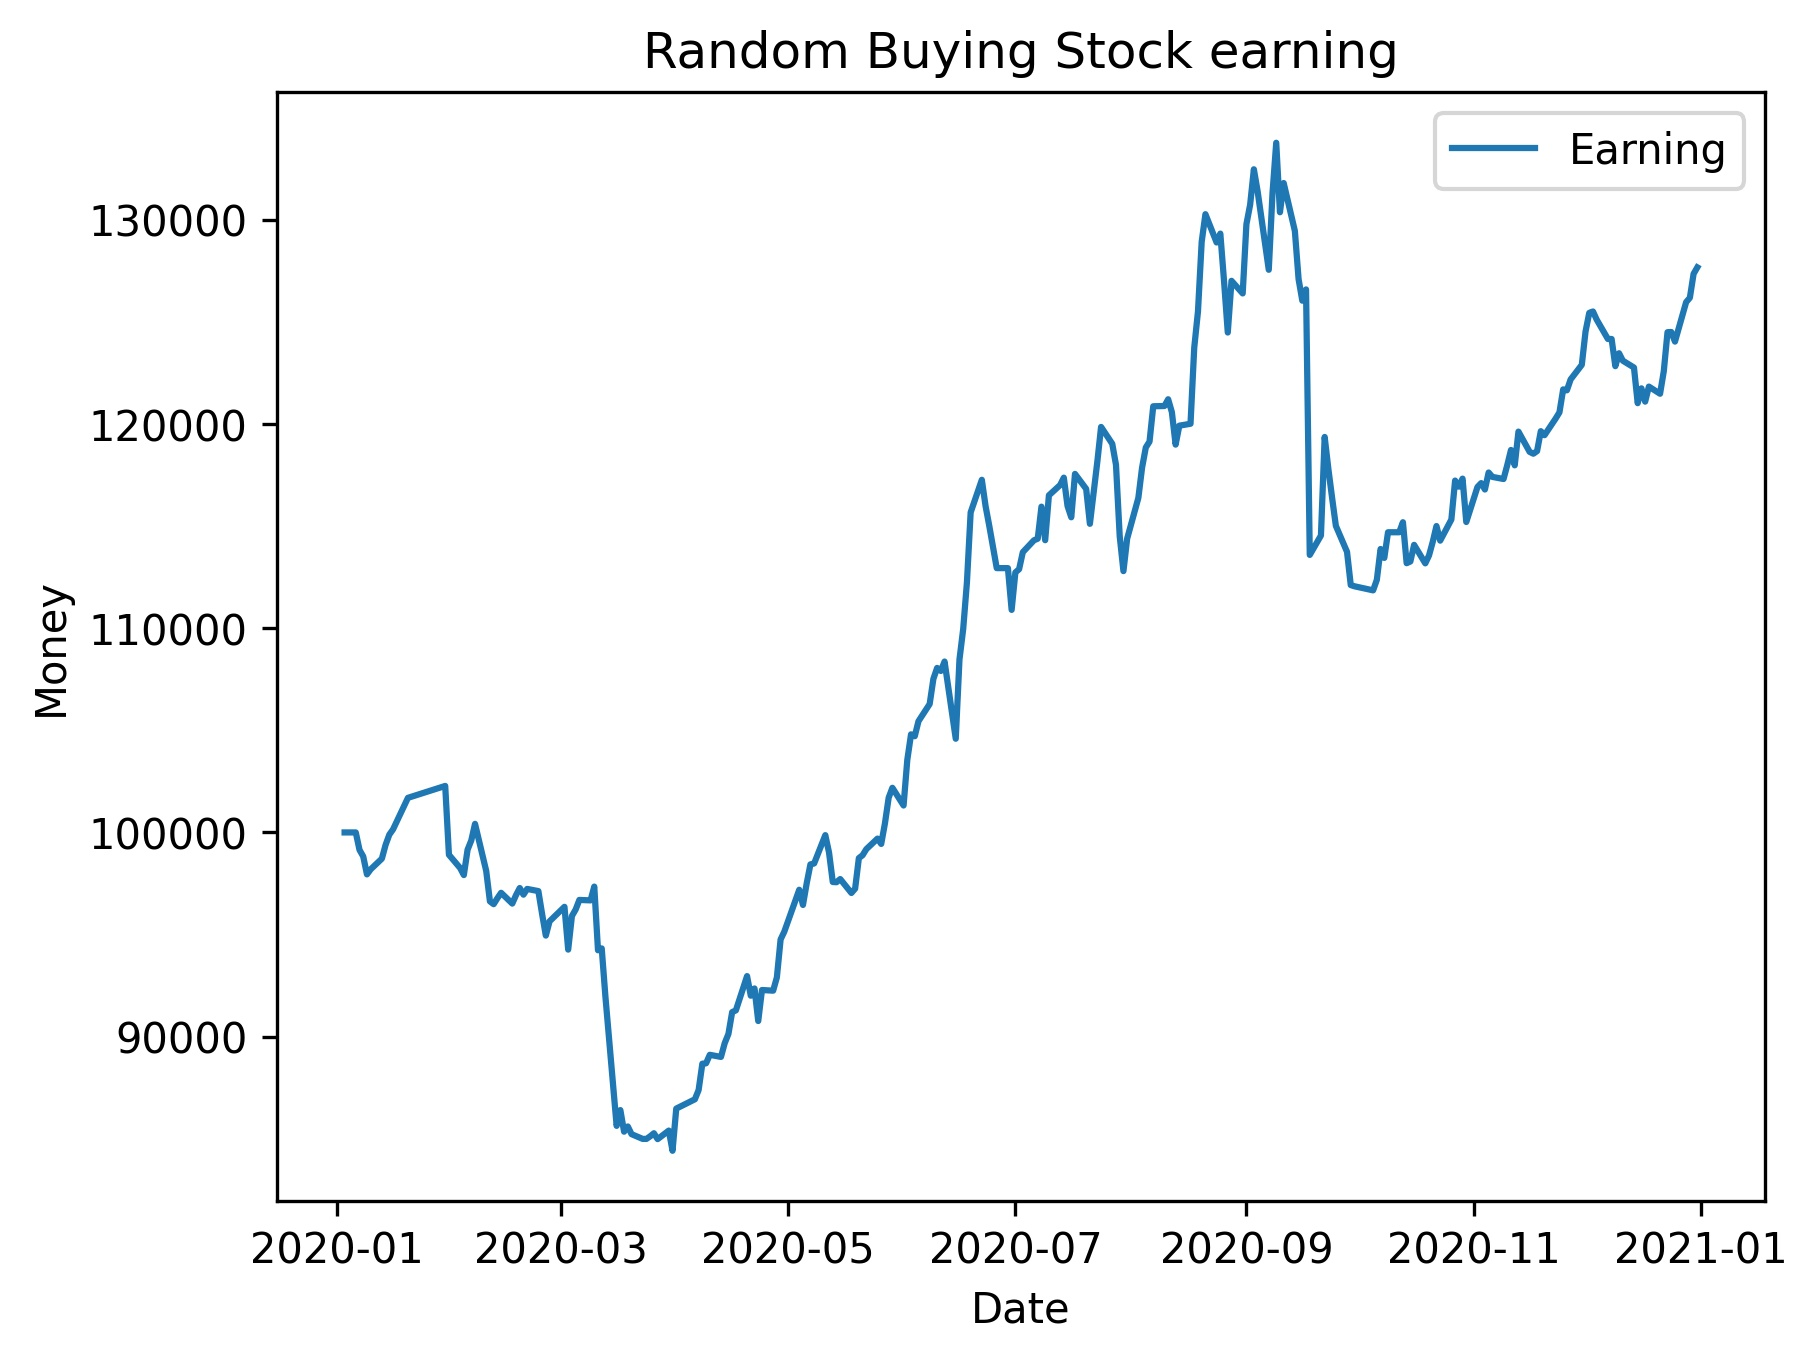
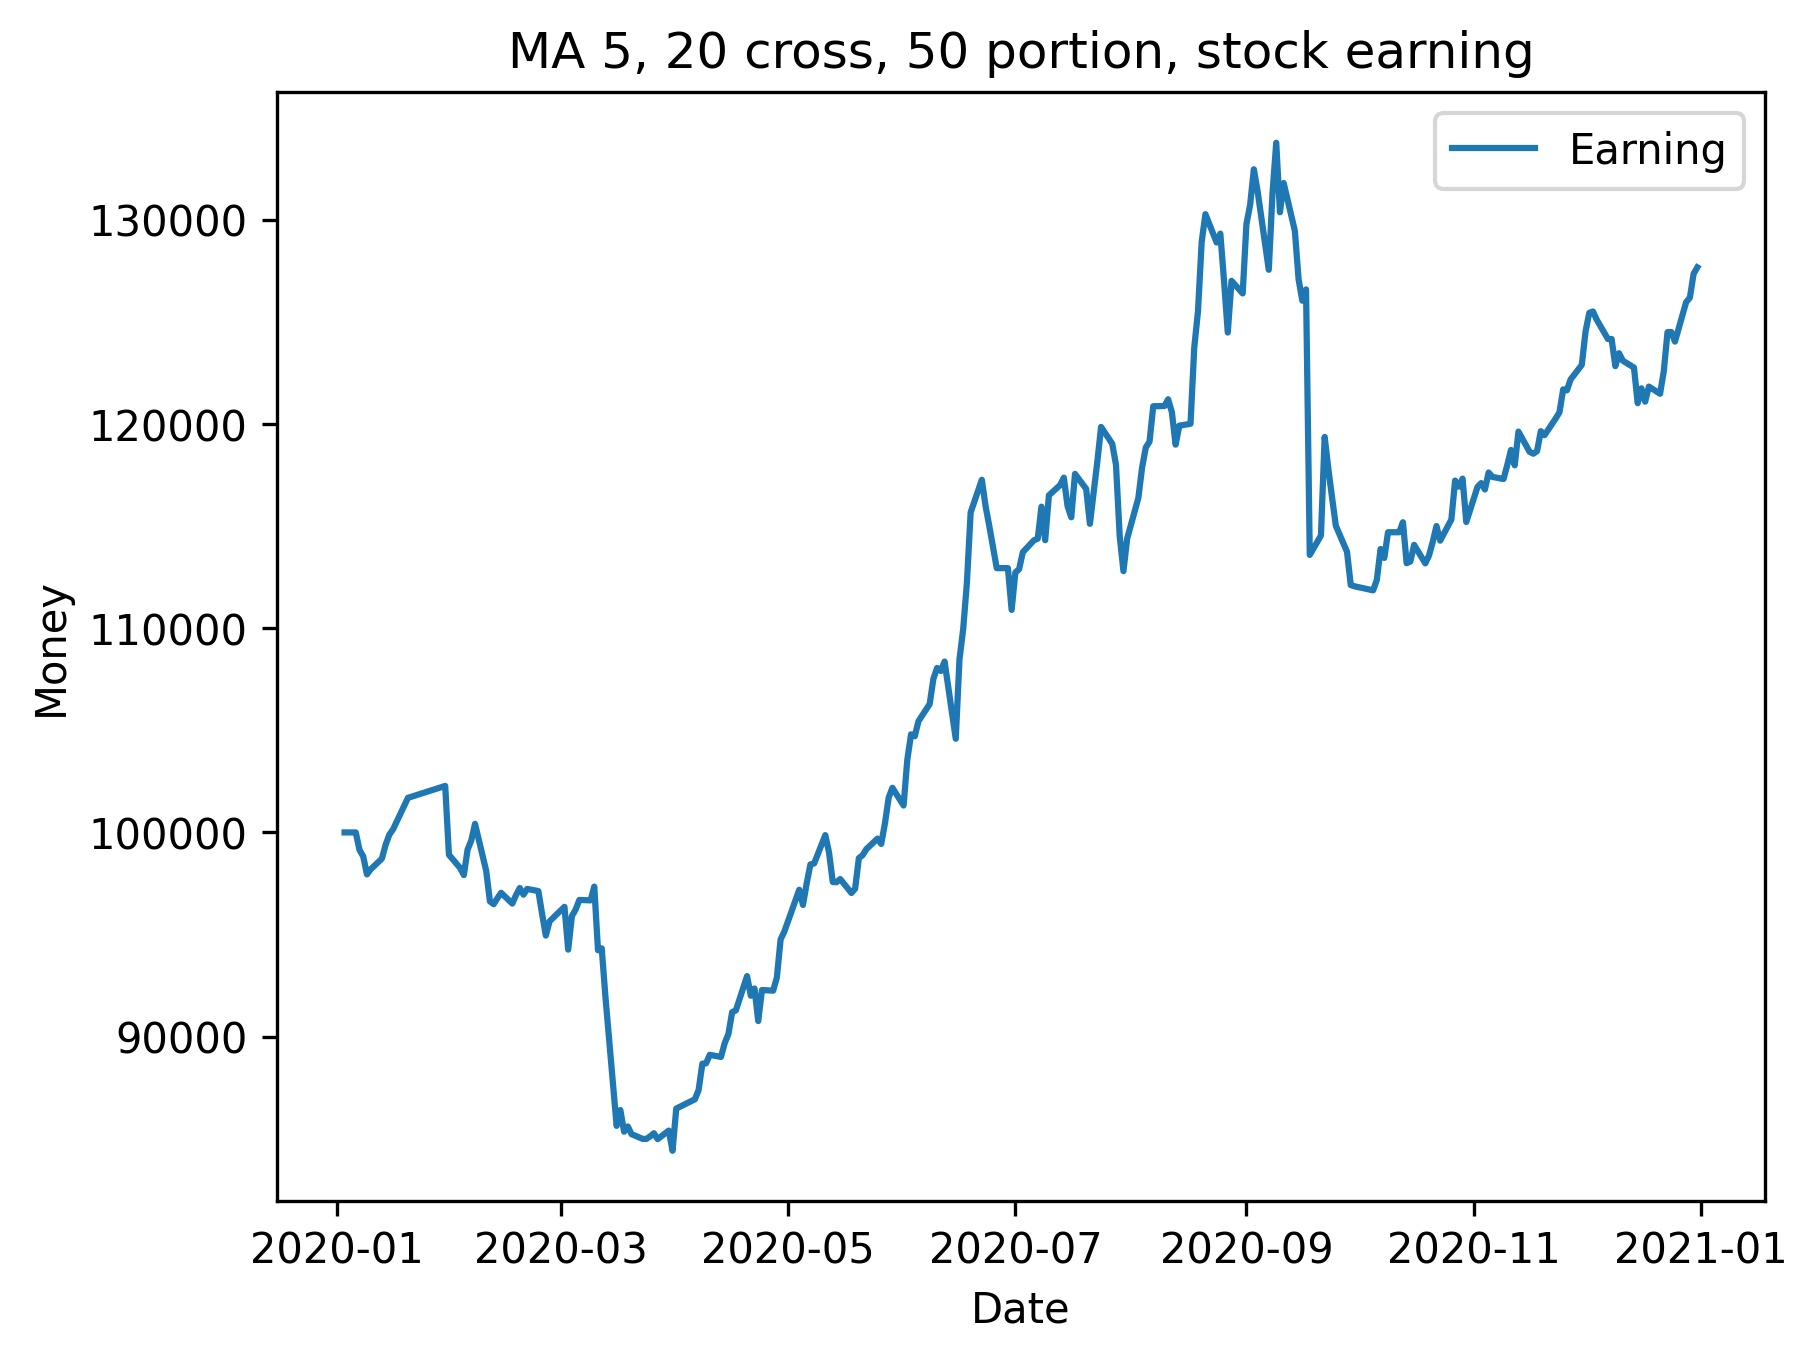
New version, without short

Changed region(s): [[0.2774, 0.0, 0.863, 0.0617]]

diff --git a/Strategy_0.py b/Strategy_0.py
@@ -28,13 +28,11 @@ for index in series:
         sum = 0
         for i in range(50):
             sum += asset[i][0]
-        # print(sum)
         earning.append([index, sum])
         # update for the plot
 
         time_data = pd.read_csv("./ProcessedData\\" + time + ".csv")
         for i in range(50):
-            # print(asset[i])
             if asset[i][1] == "-1":
                 for j in rawdata:
                     today = time_data.loc[time_data['identifier'] == j]
@@ -44,6 +42,8 @@ for index in series:
                         asset[i][1] = j
                         asset[i][2] = asset[i][0] / today['open_'].values[0]
                         break 
+            # No holding
+            
             else:
                 today = time_data.loc[time_data['identifier'] == asset[i][1]]
                 if not today.empty:
@@ -54,18 +54,17 @@ for index in series:
                     mapped[asset[i][1]] = 0
                     asset[i][1] = "-1"
                     asset[i][2] = 0
-
-
-            
-
+            # Holding 
+        
         last = time_data
+
 # print(earning)
 series = pd.DataFrame(earning, columns =['date', 'earning'])
 series['date'] = pd.to_datetime(series['date'])
 plt.plot(series['date'], series['earning'])
 plt.xlabel('Date')
 plt.ylabel('Money')
-plt.title('Random Buying Stock earning')
+plt.title('MA 5, 20 cross, 50 portion, stock earning')
 plt.legend(['Earning'])
 
 plt.savefig('./Result/plot_new1.jpg', dpi=300, bbox_inches='tight')
